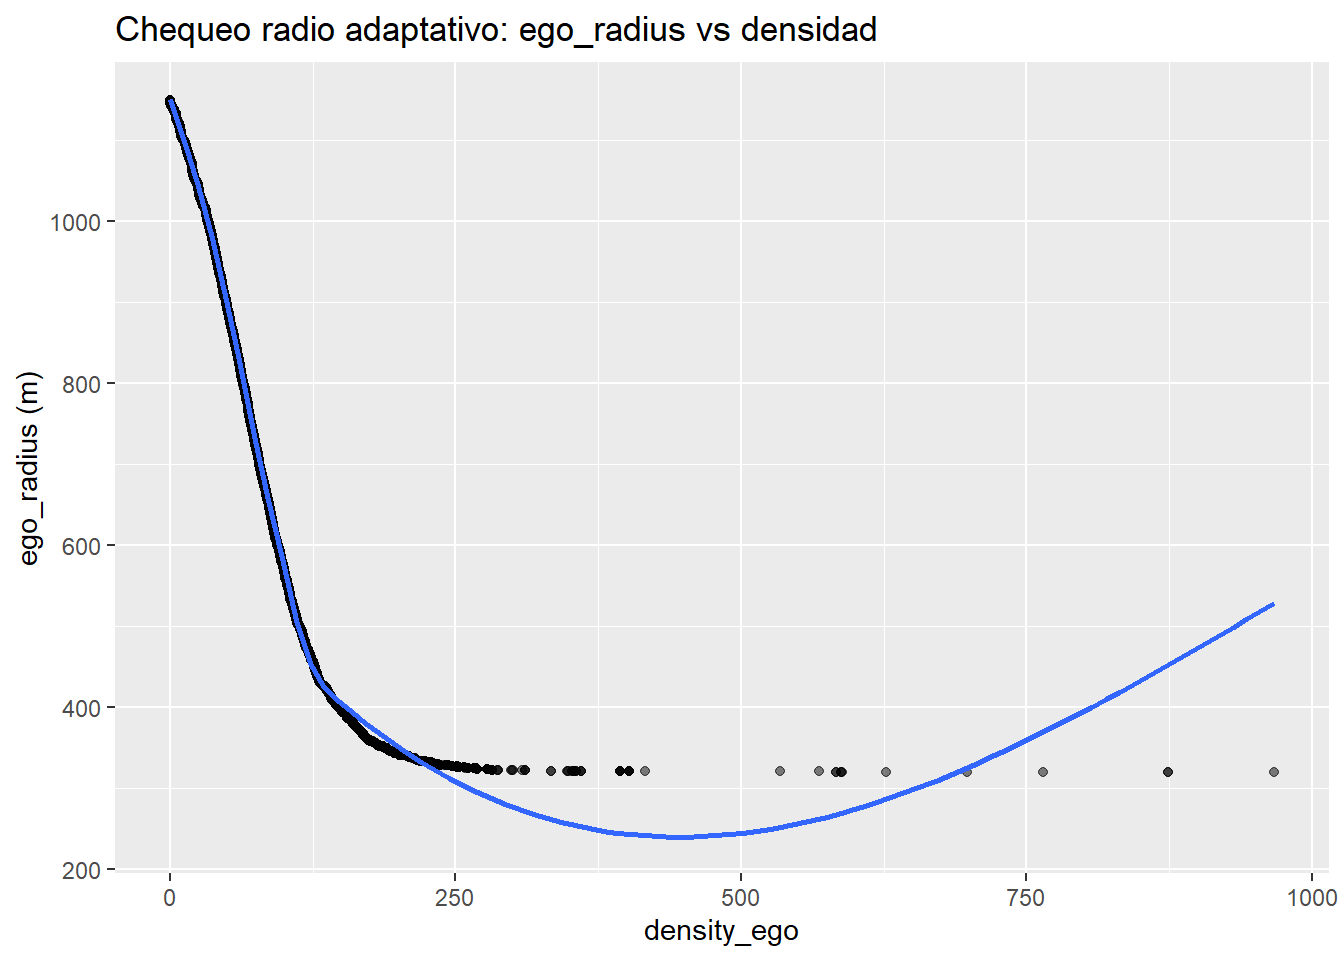
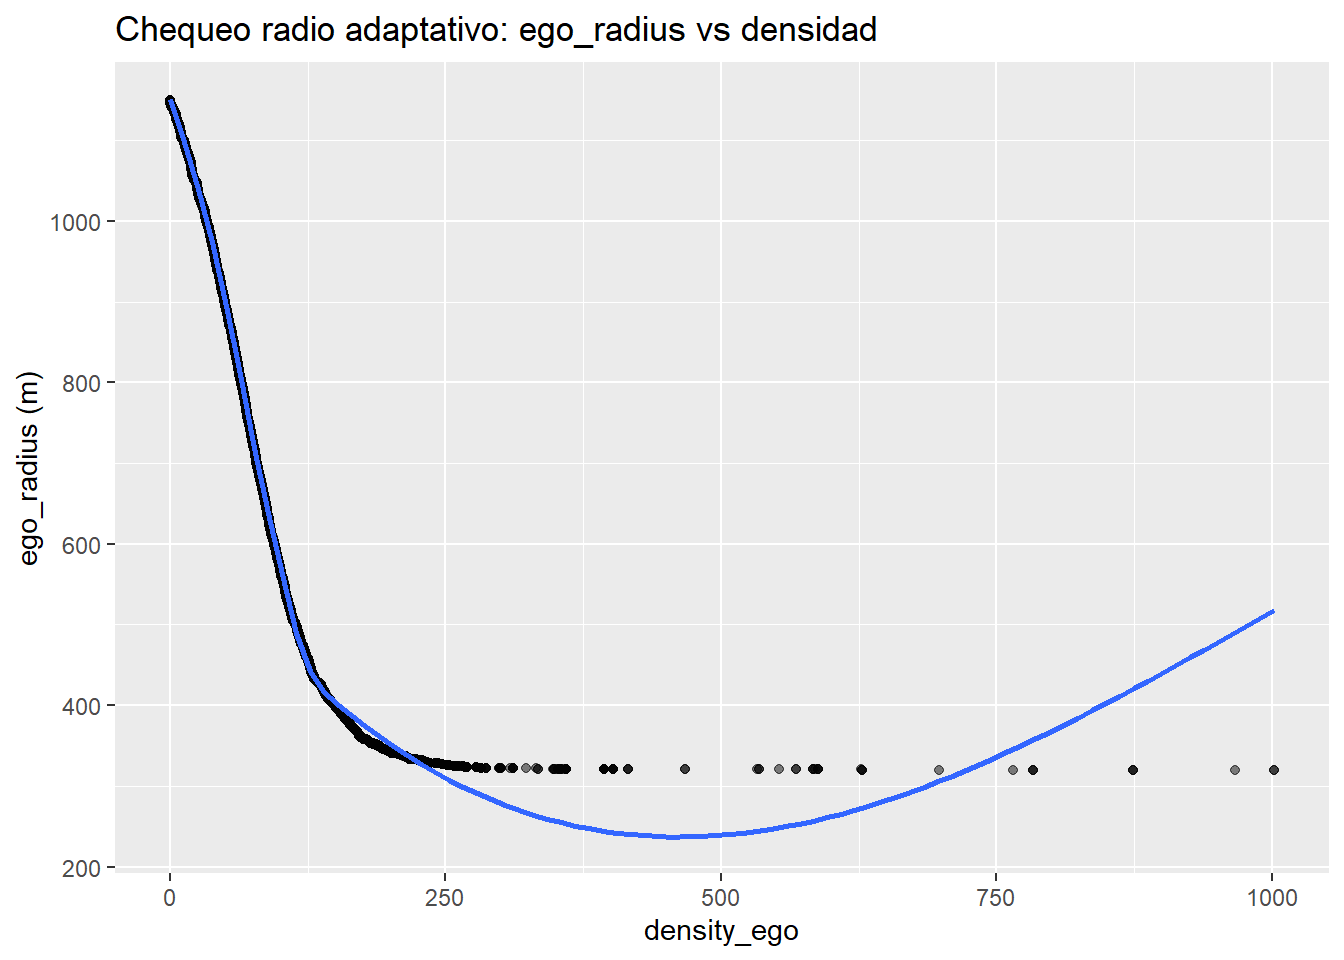
update sample

diff --git a/reports/05_adaptive_system_docoupling_density_degree.html b/reports/05_adaptive_system_docoupling_density_degree.html
@@ -842,13 +842,13 @@ background: featured.jpg;
 <span id="cb2-40"><a href="#cb2-40" aria-hidden="true" tabindex="-1"></a>  <span class="at">r_min =</span> <span class="dv">320</span>, <span class="at">r_max =</span> <span class="dv">1150</span>,</span>
 <span id="cb2-41"><a href="#cb2-41" aria-hidden="true" tabindex="-1"></a>  <span class="at">gamma_shape =</span> <span class="fl">2.2</span>, <span class="at">eta_mix =</span> <span class="fl">0.992</span>,</span>
 <span id="cb2-42"><a href="#cb2-42" aria-hidden="true" tabindex="-1"></a>  <span class="at">k_min =</span> k_min_default, <span class="at">k_cap =</span> <span class="dv">40</span>,</span>
-<span id="cb2-43"><a href="#cb2-43" aria-hidden="true" tabindex="-1"></a>  <span class="at">sample_rate =</span> <span class="fl">0.5</span></span>
+<span id="cb2-43"><a href="#cb2-43" aria-hidden="true" tabindex="-1"></a>  <span class="at">sample_rate =</span> <span class="fl">1.0</span></span>
 <span id="cb2-44"><a href="#cb2-44" aria-hidden="true" tabindex="-1"></a>)</span></code><button title="Copy to Clipboard" class="code-copy-button"><i class="bi"></i></button></pre></div>
 <div class="cell-output cell-output-stdout">
-<pre><code>[2025-10-21 17:28:36] Iniciando histórico para 2022. 
-[2025-10-21 17:28:36] Procesando ref sample_2019 vs. egos 2022 ... 
-[2025-10-21 17:33:22] Procesando ref sample_2020 vs. egos 2022 ... 
-[2025-10-21 17:37:58] Procesando ref sample_2021 vs. egos 2022 ... </code></pre>
+<pre><code>[2025-10-21 19:17:10] Iniciando histórico para 2022. 
+[2025-10-21 19:17:10] Procesando ref sample_2019 vs. egos 2022 ... 
+[2025-10-21 19:22:56] Procesando ref sample_2020 vs. egos 2022 ... 
+[2025-10-21 19:28:48] Procesando ref sample_2021 vs. egos 2022 ... </code></pre>
 </div>
 <div class="sourceCode cell-code" id="cb4"><pre class="sourceCode r code-with-copy"><code class="sourceCode r"><span id="cb4-1"><a href="#cb4-1" aria-hidden="true" tabindex="-1"></a><span class="fu">cat</span>(<span class="st">"</span><span class="sc">\n</span><span class="st">=== DIAGNÓSTICOS PRE-τ ===</span><span class="sc">\n</span><span class="st">"</span>)</span></code><button title="Copy to Clipboard" class="code-copy-button"><i class="bi"></i></button></pre></div>
 <div class="cell-output cell-output-stdout">
@@ -857,27 +857,27 @@ background: featured.jpg;
 </div>
 <div class="sourceCode cell-code" id="cb6"><pre class="sourceCode r code-with-copy"><code class="sourceCode r"><span id="cb6-1"><a href="#cb6-1" aria-hidden="true" tabindex="-1"></a><span class="fu">cat</span>(<span class="st">"β log(densidad):"</span>, <span class="fu">round</span>(res_base<span class="sc">$</span>diag<span class="sc">$</span>beta_logdens, <span class="dv">4</span>), <span class="st">"</span><span class="sc">\n</span><span class="st">"</span>)</span></code><button title="Copy to Clipboard" class="code-copy-button"><i class="bi"></i></button></pre></div>
 <div class="cell-output cell-output-stdout">
-<pre><code>β log(densidad): 0.3982 </code></pre>
+<pre><code>β log(densidad): 0.2503 </code></pre>
 </div>
 <div class="sourceCode cell-code" id="cb8"><pre class="sourceCode r code-with-copy"><code class="sourceCode r"><span id="cb8-1"><a href="#cb8-1" aria-hidden="true" tabindex="-1"></a><span class="fu">print</span>(res_base<span class="sc">$</span>diag<span class="sc">$</span>cv_table)</span></code><button title="Copy to Clipboard" class="code-copy-button"><i class="bi"></i></button></pre></div>
 <div class="cell-output cell-output-stdout">
 <pre><code># A tibble: 5 × 4
-      q mean_degree sd_degree     cv
-  &lt;int&gt;       &lt;dbl&gt;     &lt;dbl&gt;  &lt;dbl&gt;
-1     1        36.4      8.48 0.233 
-2     2        39.1      3.84 0.0981
-3     3        39.0      4.06 0.104 
-4     4        38.6      4.80 0.125 
-5     5        36.3      6.90 0.190 </code></pre>
+      q mean_degree sd_degree    cv
+  &lt;int&gt;       &lt;dbl&gt;     &lt;dbl&gt; &lt;dbl&gt;
+1     1        36.7      8.03 0.219
+2     2        39.1      3.96 0.101
+3     3        38.9      4.24 0.109
+4     4        38.5      4.87 0.126
+5     5        36.4      6.91 0.190</code></pre>
 </div>
 <div class="sourceCode cell-code" id="cb10"><pre class="sourceCode r code-with-copy"><code class="sourceCode r"><span id="cb10-1"><a href="#cb10-1" aria-hidden="true" tabindex="-1"></a><span class="fu">cat</span>(<span class="st">"cv_range:"</span>, <span class="fu">round</span>(res_base<span class="sc">$</span>diag<span class="sc">$</span>cv_range, <span class="dv">4</span>), <span class="st">"</span><span class="sc">\n</span><span class="st">"</span>)</span></code><button title="Copy to Clipboard" class="code-copy-button"><i class="bi"></i></button></pre></div>
 <div class="cell-output cell-output-stdout">
-<pre><code>cv_range: 0.135 </code></pre>
+<pre><code>cv_range: 0.1174 </code></pre>
 </div>
 <div class="sourceCode cell-code" id="cb12"><pre class="sourceCode r code-with-copy"><code class="sourceCode r"><span id="cb12-1"><a href="#cb12-1" aria-hidden="true" tabindex="-1"></a><span class="fu">cat</span>(<span class="st">"%≥cap:"</span>, <span class="fu">round</span>(res_base<span class="sc">$</span>diag<span class="sc">$</span>pct_ge_cap, <span class="dv">4</span>),</span>
 <span id="cb12-2"><a href="#cb12-2" aria-hidden="true" tabindex="-1"></a>    <span class="st">" | %≤kmin:"</span>, <span class="fu">round</span>(res_base<span class="sc">$</span>diag<span class="sc">$</span>pct_le_min, <span class="dv">4</span>), <span class="st">"</span><span class="sc">\n</span><span class="st">"</span>)</span></code><button title="Copy to Clipboard" class="code-copy-button"><i class="bi"></i></button></pre></div>
 <div class="cell-output cell-output-stdout">
-<pre><code>%≥cap: 0.8305  | %≤kmin: 0.0205 </code></pre>
+<pre><code>%≥cap: 0.8332  | %≤kmin: 0.0196 </code></pre>
 </div>
 <div class="sourceCode cell-code" id="cb14"><pre class="sourceCode r code-with-copy"><code class="sourceCode r"><span id="cb14-1"><a href="#cb14-1" aria-hidden="true" tabindex="-1"></a>q_lu <span class="ot">&lt;-</span> <span class="fu">build_q_lookup</span>(res_base, all_samples)</span>
 <span id="cb14-2"><a href="#cb14-2" aria-hidden="true" tabindex="-1"></a></span>
@@ -898,27 +898,27 @@ background: featured.jpg;
 </div>
 <div class="sourceCode cell-code" id="cb16"><pre class="sourceCode r code-with-copy"><code class="sourceCode r"><span id="cb16-1"><a href="#cb16-1" aria-hidden="true" tabindex="-1"></a><span class="fu">cat</span>(<span class="st">"β log(densidad) (ideal ~0):"</span>, <span class="fu">round</span>(res_final<span class="sc">$</span>diag<span class="sc">$</span>beta_logdens, <span class="dv">4</span>), <span class="st">"</span><span class="sc">\n</span><span class="st">"</span>)</span></code><button title="Copy to Clipboard" class="code-copy-button"><i class="bi"></i></button></pre></div>
 <div class="cell-output cell-output-stdout">
-<pre><code>β log(densidad) (ideal ~0): -0.012 </code></pre>
+<pre><code>β log(densidad) (ideal ~0): -0.0876 </code></pre>
 </div>
 <div class="sourceCode cell-code" id="cb18"><pre class="sourceCode r code-with-copy"><code class="sourceCode r"><span id="cb18-1"><a href="#cb18-1" aria-hidden="true" tabindex="-1"></a><span class="fu">print</span>(res_final<span class="sc">$</span>diag<span class="sc">$</span>cv_table)</span></code><button title="Copy to Clipboard" class="code-copy-button"><i class="bi"></i></button></pre></div>
 <div class="cell-output cell-output-stdout">
 <pre><code># A tibble: 5 × 4
       q mean_degree sd_degree     cv
   &lt;int&gt;       &lt;dbl&gt;     &lt;dbl&gt;  &lt;dbl&gt;
-1     1        23.8      3.98 0.167 
-2     2        24.8      1.32 0.0533
-3     3        23.8      1.32 0.0552
-4     4        23.8      1.63 0.0685
-5     5        23.5      2.24 0.0951</code></pre>
+1     1        24.0      3.70 0.154 
+2     2        24.8      1.42 0.0571
+3     3        23.8      1.41 0.0590
+4     4        23.8      1.64 0.0689
+5     5        23.5      2.30 0.0979</code></pre>
 </div>
 <div class="sourceCode cell-code" id="cb20"><pre class="sourceCode r code-with-copy"><code class="sourceCode r"><span id="cb20-1"><a href="#cb20-1" aria-hidden="true" tabindex="-1"></a><span class="fu">cat</span>(<span class="st">"cv_range:"</span>, <span class="fu">round</span>(res_final<span class="sc">$</span>diag<span class="sc">$</span>cv_range, <span class="dv">4</span>), <span class="st">"</span><span class="sc">\n</span><span class="st">"</span>)</span></code><button title="Copy to Clipboard" class="code-copy-button"><i class="bi"></i></button></pre></div>
 <div class="cell-output cell-output-stdout">
-<pre><code>cv_range: 0.1136 </code></pre>
+<pre><code>cv_range: 0.0972 </code></pre>
 </div>
 <div class="sourceCode cell-code" id="cb22"><pre class="sourceCode r code-with-copy"><code class="sourceCode r"><span id="cb22-1"><a href="#cb22-1" aria-hidden="true" tabindex="-1"></a><span class="fu">cat</span>(<span class="st">"%≥cap:"</span>, <span class="fu">round</span>(res_final<span class="sc">$</span>diag<span class="sc">$</span>pct_ge_cap, <span class="dv">4</span>),</span>
 <span id="cb22-2"><a href="#cb22-2" aria-hidden="true" tabindex="-1"></a>    <span class="st">" | %≤kmin:"</span>, <span class="fu">round</span>(res_final<span class="sc">$</span>diag<span class="sc">$</span>pct_le_min, <span class="dv">4</span>), <span class="st">"</span><span class="sc">\n</span><span class="st">"</span>)</span></code><button title="Copy to Clipboard" class="code-copy-button"><i class="bi"></i></button></pre></div>
 <div class="cell-output cell-output-stdout">
-<pre><code>%≥cap: 0  | %≤kmin: 0.0205 </code></pre>
+<pre><code>%≥cap: 0  | %≤kmin: 0.0196 </code></pre>
 </div>
 </div>
 <hr>
@@ -940,11 +940,11 @@ background: featured.jpg;
 <span id="cb24-9"><a href="#cb24-9" aria-hidden="true" tabindex="-1"></a>coef_pre; coef_post</span></code><button title="Copy to Clipboard" class="code-copy-button"><i class="bi"></i></button></pre></div>
 <div class="cell-output cell-output-stdout">
 <pre><code>log(pmax(density_ego, 1e-06)) 
-                    0.3982275 </code></pre>
+                    0.2503048 </code></pre>
 </div>
 <div class="cell-output cell-output-stdout">
 <pre><code>log(pmax(density_ego, 1e-06)) 
-                  -0.01195556 </code></pre>
+                  -0.08762627 </code></pre>
 </div>
 </div>
 <p><strong>Scatter + ajuste lineal (Pre-τ):</strong></p>
@@ -985,24 +985,24 @@ background: featured.jpg;
 <span id="cb29-4"><a href="#cb29-4" aria-hidden="true" tabindex="-1"></a>cv_tab_pre</span></code><button title="Copy to Clipboard" class="code-copy-button"><i class="bi"></i></button></pre></div>
 <div class="cell-output cell-output-stdout">
 <pre><code># A tibble: 5 × 4
-      q mean_degree sd_degree     cv
-  &lt;int&gt;       &lt;dbl&gt;     &lt;dbl&gt;  &lt;dbl&gt;
-1     1        36.4      8.48 0.233 
-2     2        39.1      3.84 0.0981
-3     3        39.0      4.06 0.104 
-4     4        38.6      4.80 0.125 
-5     5        36.3      6.90 0.190 </code></pre>
+      q mean_degree sd_degree    cv
+  &lt;int&gt;       &lt;dbl&gt;     &lt;dbl&gt; &lt;dbl&gt;
+1     1        36.7      8.03 0.219
+2     2        39.1      3.96 0.101
+3     3        38.9      4.24 0.109
+4     4        38.5      4.87 0.126
+5     5        36.4      6.91 0.190</code></pre>
 </div>
 <div class="sourceCode cell-code" id="cb31"><pre class="sourceCode r code-with-copy"><code class="sourceCode r"><span id="cb31-1"><a href="#cb31-1" aria-hidden="true" tabindex="-1"></a>cv_tab_post</span></code><button title="Copy to Clipboard" class="code-copy-button"><i class="bi"></i></button></pre></div>
 <div class="cell-output cell-output-stdout">
 <pre><code># A tibble: 5 × 4
       q mean_degree sd_degree     cv
   &lt;int&gt;       &lt;dbl&gt;     &lt;dbl&gt;  &lt;dbl&gt;
-1     1        23.8      3.98 0.167 
-2     2        24.8      1.32 0.0533
-3     3        23.8      1.32 0.0552
-4     4        23.8      1.63 0.0685
-5     5        23.5      2.24 0.0951</code></pre>
+1     1        24.0      3.70 0.154 
+2     2        24.8      1.42 0.0571
+3     3        23.8      1.41 0.0590
+4     4        23.8      1.64 0.0689
+5     5        23.5      2.30 0.0979</code></pre>
 </div>
 </div>
 <div class="cell">
@@ -1126,18 +1126,18 @@ background: featured.jpg;
 <pre><code># A tibble: 12 × 7
    beta_logdens cv_range mean_deg pct_ge_cap d_first d_last s_last
           &lt;dbl&gt;    &lt;dbl&gt;    &lt;dbl&gt;      &lt;dbl&gt;   &lt;dbl&gt;  &lt;dbl&gt;  &lt;dbl&gt;
- 1      -0.0120    0.114     24.0          0  -0.005 -0.005      0
- 2      -0.0120    0.114     24.0          0  -0.005  0          0
- 3      -0.0120    0.114     24.0          0  -0.005  0.005      0
- 4      -0.0120    0.114     24.0          0   0     -0.005      0
- 5      -0.0120    0.114     24.0          0   0      0          0
- 6      -0.0120    0.114     24.0          0   0      0.005      0
- 7      -0.0120    0.114     24.0          0   0.005 -0.005      0
- 8      -0.0120    0.114     24.0          0   0.005  0          0
- 9      -0.0120    0.114     24.0          0   0.005  0.005      0
-10       0.180     0.114     24.1          0  -0.005 -0.005      1
-11       0.180     0.114     24.1          0  -0.005  0          1
-12       0.180     0.114     24.1          0  -0.005  0.005      1</code></pre>
+ 1      -0.0876   0.0972     24.0          0  -0.005 -0.005      0
+ 2      -0.0876   0.0972     24.0          0  -0.005  0          0
+ 3      -0.0876   0.0972     24.0          0  -0.005  0.005      0
+ 4      -0.0876   0.0972     24.0          0   0     -0.005      0
+ 5      -0.0876   0.0972     24.0          0   0      0          0
+ 6      -0.0876   0.0972     24.0          0   0      0.005      0
+ 7      -0.0876   0.0972     24.0          0   0.005 -0.005      0
+ 8      -0.0876   0.0972     24.0          0   0.005  0          0
+ 9      -0.0876   0.0972     24.0          0   0.005  0.005      0
+10       0.107    0.0972     24.2          0  -0.005 -0.005      1
+11       0.107    0.0972     24.2          0  -0.005  0          1
+12       0.107    0.0972     24.2          0  -0.005  0.005      1</code></pre>
 </div>
 </div>
 <hr>
